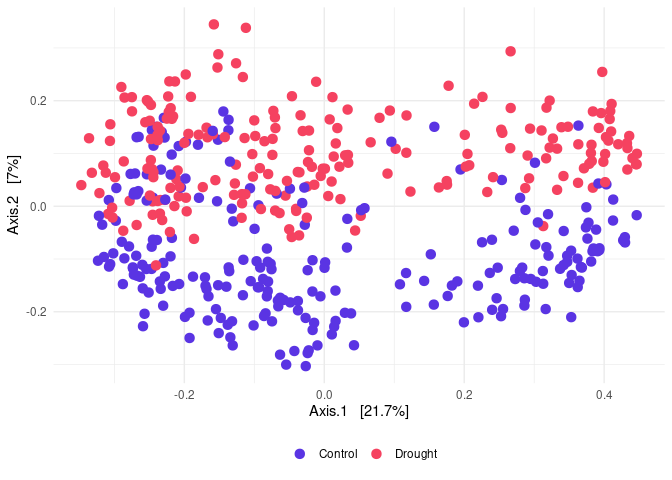
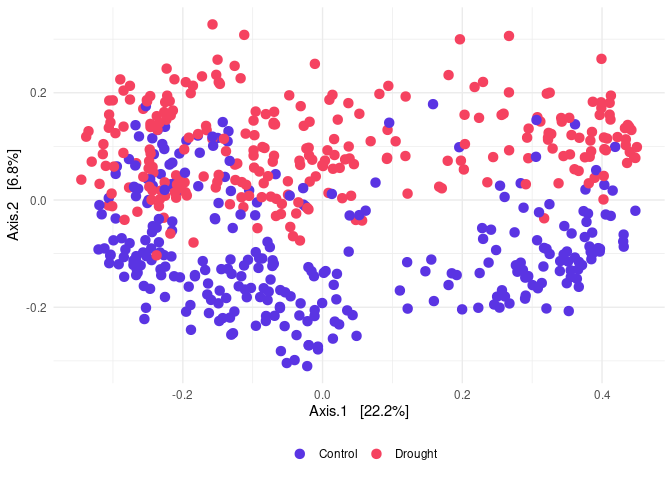
Updated Metagenomic_Analysis.md file

diff --git a/Metagenomics_Analysis.md b/Metagenomics_Analysis.md
@@ -2,7 +2,7 @@ Metagenomics Analysis
 ================
 Michelle Hagen
 
-Perform Metagenomics analysis to the *‘drought-stress’ dataset* from
+Perform 16S rRNA-based metagenomic analysis to the *‘drought-stress’ dataset* from
 Naylor et al., 2017:
 
 Naylor, D., DeGraaf, S., Purdom, E., Coleman-Derr, D.: Drought and host
@@ -131,39 +131,7 @@ ps_rare_filtered
     ## sample_data() Sample Data:       [ 560 samples by 3 sample variables ]
     ## tax_table()   Taxonomy Table:    [ 3276 taxa by 7 taxonomic ranks ]
 
-Remove 20 % of samples from the dataset to create a hold-out dataset for
-testing the ML model.
-
-``` r
-factor_to_maintain_ratio <- "Watering_Regm"
-sample_data(ps_rare_filtered)$Watering_Regm <- factor(sample_data(ps_rare_filtered)$Watering_Regm)
-
-# Determine 20% of the total number of samples
-percent_to_select <- 0.20
-total_samples <- nsamples(ps_rare_filtered)
-num_samples_to_select <- round(total_samples * 0.20)
-
-# Calculate the number of samples to select for each level of the factor
-samples_per_level <- table(sample_data(ps_rare_filtered)[["Watering_Regm"]])
-samples_to_select_per_level <- lapply(samples_per_level, function(x) round(x * 0.20))
-
-# Randomly select samples from each level of the factor
-selected_samples <- list()
-for (level in levels(sample_data(ps_rare_filtered)[["Watering_Regm"]])) {
-  level_indices <- which(sample_data(ps_rare_filtered)[["Watering_Regm"]] == level)
-  selected_indices <- sample(level_indices, samples_to_select_per_level[[level]])
-  selected_samples[[level]] <- rownames(sample_data(ps_rare_filtered))[selected_indices]
-}
-
-# Combine selected samples into two separate datasets
-selected_sample_names <- unlist(selected_samples)
-remaining_sample_names <- setdiff(rownames(sample_data(ps_rare_filtered)), selected_sample_names)
-
-ps_hold_out <- prune_samples(selected_sample_names, ps_rare_filtered)
-ps_rare_filtered <- prune_samples(remaining_sample_names, ps_rare_filtered)
-```
-
-Remaining number of Control and Drought samples in the dataset:
+Number of Control and Drought samples in the dataset:
 
 ``` r
 table(sample_data(ps_rare_filtered)[["Watering_Regm"]])
@@ -171,17 +139,7 @@ table(sample_data(ps_rare_filtered)[["Watering_Regm"]])
 
     ## 
     ## Control Drought 
-    ##     234     214
-
-Remaining number of Control and Drought samples in the hold-out dataset:
-
-``` r
-table(sample_data(ps_hold_out)[["Watering_Regm"]])
-```
-
-    ## 
-    ## Control Drought 
-    ##      58      54
+    ##     292     268
 
 # Diversity Analysis
 
@@ -305,11 +263,12 @@ egg::ggarrange(p_ra_top10_Phylum, p_ra_top10_Class, p_ra_top10_Order, p_ra_top10
 <figure>
 <img
 src="Metagenomics_Analysis_files/figure-gfm/top10%20rel%20abundances-1.png"
-alt="Relative Abundances per Rank. Bar plots displaying the relative abundance of the top 10 taxa between the ’Control’ and ’Drought’ group on Phylum, Class, Order, Family and Genus level in alphabetical order." />
-<figcaption aria-hidden="true"><strong>Relative Abundances per
-Rank.</strong> Bar plots displaying the relative abundance of the top 10
-taxa between the ’Control’ and ’Drought’ group on Phylum, Class, Order,
-Family and Genus level in alphabetical order.</figcaption>
+alt="Relative Abundances per Rank of the Grass-Drought Dataset. Bar plots displaying the relative abundance of the top 10 taxa between the ’Control’ and ’Drought’ group on Phylum, Class, Order, Family and Genus level in alphabetical order." />
+<figcaption aria-hidden="true"><strong>Relative Abundances per Rank of
+the Grass-Drought Dataset.</strong> Bar plots displaying the relative
+abundance of the top 10 taxa between the ’Control’ and ’Drought’ group
+on Phylum, Class, Order, Family and Genus level in alphabetical
+order.</figcaption>
 </figure>
 
 ## Alpha Diversity
@@ -345,14 +304,14 @@ adiv_wr
 <figure>
 <img
 src="Metagenomics_Analysis_files/figure-gfm/Alpha%20Diversity-1.png"
-alt="Alpha Diversity. Alpha diversity plot comparing the Control (blue) and ’Drought’ (red) watering regimes. (A) Boxplot of Shannon’s Diversity index for all samples comparing the ‘Control’ (blue) and ’Drought’ (red) watering regimes. Significance was determined using a non-parametric Wilcoxon rank sum test (* p &lt;0.05, ** p &lt;0.01, *** p &lt;0.001, **** p &lt;0.0001)." />
-<figcaption aria-hidden="true"><strong>Alpha Diversity.</strong> Alpha
-diversity plot comparing the Control (blue) and ’Drought’ (red) watering
-regimes. (A) Boxplot of Shannon’s Diversity index for all samples
-comparing the ‘Control’ (blue) and ’Drought’ (red) watering regimes.
-Significance was determined using a non-parametric Wilcoxon rank sum
-test (* p &lt;0.05, ** p &lt;0.01, *** p &lt;0.001, **** p
-&lt;0.0001).</figcaption>
+alt="Alpha Diversity for the Grass-Drought Dataset. Alpha diversity plot comparing the Control (blue) and ’Drought’ (red) watering regimes. (A) Boxplot of Shannon’s Diversity index for all samples comparing the ‘Control’ (blue) and ’Drought’ (red) watering regimes. Significance was determined using a non-parametric Wilcoxon rank sum test (* p &lt;0.05, ** p &lt;0.01, *** p &lt;0.001, **** p &lt;0.0001)." />
+<figcaption aria-hidden="true"><strong>Alpha Diversity for the
+Grass-Drought Dataset.</strong> Alpha diversity plot comparing the
+Control (blue) and ’Drought’ (red) watering regimes. (A) Boxplot of
+Shannon’s Diversity index for all samples comparing the ‘Control’ (blue)
+and ’Drought’ (red) watering regimes. Significance was determined using
+a non-parametric Wilcoxon rank sum test (* p &lt;0.05, ** p &lt;0.01,
+*** p &lt;0.001, **** p &lt;0.0001).</figcaption>
 </figure>
 
 ## Beta Diversity
@@ -377,10 +336,11 @@ pcoa_wr
 
 <figure>
 <img src="Metagenomics_Analysis_files/figure-gfm/Beta%20diversity-1.png"
-alt="Beta Diversity. Principal Coordinate plot using Bray-Curtis dissimilarities colored by the ’Control’ (blue) and ’Drought’ (red) watering regimes." />
-<figcaption aria-hidden="true"><strong>Beta Diversity.</strong>
-Principal Coordinate plot using Bray-Curtis dissimilarities colored by
-the ’Control’ (blue) and ’Drought’ (red) watering regimes.</figcaption>
+alt="Beta Diversity for the Grass-Drought Dataset. Principal Coordinate plot using Bray-Curtis dissimilarities colored by the ’Control’ (blue) and ’Drought’ (red) watering regimes." />
+<figcaption aria-hidden="true"><strong>Beta Diversity for the
+Grass-Drought Dataset.</strong> Principal Coordinate plot using
+Bray-Curtis dissimilarities colored by the ’Control’ (blue) and
+’Drought’ (red) watering regimes.</figcaption>
 </figure>
 
 ## Differential Abundance Analysis
@@ -2096,15 +2056,16 @@ upset(fromList(ASV_intersection), order.by = "freq", point.size=4, sets.bar.colo
 <figure>
 <img
 src="Metagenomics_Analysis_files/figure-gfm/UpsetPlot%20between%20different%20DAA%20Methods-1.png"
-alt="ASV Intersections between different DAA Tools on ASV level. Upset plots displaying the overlap and uniqueness of significant taxa on ASV level identified by DAA methods (ALDEx2, DESeq2, ANCOM-BC2, non-parametric Wilcoxon rank-sum test, and edgeR). The horizontal bars show the total number of taxa for each tool, while the vertical bars show the number of shared taxa between corresponding sets, sorted by the total number of shared taxa. All tools use an alpha threshold of 0.05 for significance" />
+alt="ASV Intersections between different DAA Tools on ASV level of the Grass-Drought Dataset. Upset plots displaying the overlap and uniqueness of significant taxa on ASV level identified by DAA methods (ALDEx2, DESeq2, ANCOM-BC2, non-parametric Wilcoxon rank-sum test, and edgeR). The horizontal bars show the total number of taxa for each tool, while the vertical bars show the number of shared taxa between corresponding sets, sorted by the total number of shared taxa. All tools use an alpha threshold of 0.05 for significance" />
 <figcaption aria-hidden="true"><strong>ASV Intersections between
-different DAA Tools on ASV level.</strong> Upset plots displaying the
-overlap and uniqueness of significant taxa on ASV level identified by
-DAA methods (ALDEx2, DESeq2, ANCOM-BC2, non-parametric Wilcoxon rank-sum
-test, and edgeR). The horizontal bars show the total number of taxa for
-each tool, while the vertical bars show the number of shared taxa
-between corresponding sets, sorted by the total number of shared taxa.
-All tools use an alpha threshold of 0.05 for significance</figcaption>
+different DAA Tools on ASV level of the Grass-Drought Dataset.</strong>
+Upset plots displaying the overlap and uniqueness of significant taxa on
+ASV level identified by DAA methods (ALDEx2, DESeq2, ANCOM-BC2,
+non-parametric Wilcoxon rank-sum test, and edgeR). The horizontal bars
+show the total number of taxa for each tool, while the vertical bars
+show the number of shared taxa between corresponding sets, sorted by the
+total number of shared taxa. All tools use an alpha threshold of 0.05
+for significance</figcaption>
 </figure>
 
 ``` r
@@ -2114,14 +2075,15 @@ upset(fromList(Phylum_intersection), order.by = "freq", point.size=4, sets.bar.c
 <figure>
 <img
 src="Metagenomics_Analysis_files/figure-gfm/Phylum%20UpsetPlot%20between%20top3%20DAA%20Methods-1.png"
-alt="Phylum Intersections between different DAA Tools. Upset plots displaying the overlap and uniqueness of significant phyla identified by top 3 DAA methods (ALDEx2, DESeq2, ANCOM-BC2). The horizontal bars show the total number of phyla for each tool, while the vertical bars show the number of shared phyla between corresponding sets, sorted by the total number of shared phyla. All tools use an alpha threshold of 0.05 for significance" />
+alt="Phylum Intersections between different DAA Tools on the Grass-Drought Dataset. Upset plots displaying the overlap and uniqueness of significant phyla identified by top 3 DAA methods (ALDEx2, DESeq2, ANCOM-BC2). The horizontal bars show the total number of phyla for each tool, while the vertical bars show the number of shared phyla between corresponding sets, sorted by the total number of shared phyla. All tools use an alpha threshold of 0.05 for significance" />
 <figcaption aria-hidden="true"><strong>Phylum Intersections between
-different DAA Tools.</strong> Upset plots displaying the overlap and
-uniqueness of significant phyla identified by top 3 DAA methods (ALDEx2,
-DESeq2, ANCOM-BC2). The horizontal bars show the total number of phyla
-for each tool, while the vertical bars show the number of shared phyla
-between corresponding sets, sorted by the total number of shared phyla.
-All tools use an alpha threshold of 0.05 for significance</figcaption>
+different DAA Tools on the Grass-Drought Dataset.</strong> Upset plots
+displaying the overlap and uniqueness of significant phyla identified by
+top 3 DAA methods (ALDEx2, DESeq2, ANCOM-BC2). The horizontal bars show
+the total number of phyla for each tool, while the vertical bars show
+the number of shared phyla between corresponding sets, sorted by the
+total number of shared phyla. All tools use an alpha threshold of 0.05
+for significance</figcaption>
 </figure>
 
 ``` r
@@ -2131,15 +2093,15 @@ upset(fromList(Class_intersection), order.by = "freq", point.size=4, sets.bar.co
 <figure>
 <img
 src="Metagenomics_Analysis_files/figure-gfm/Class%20UpsetPlot%20between%20top3%20DAA%20Methods-1.png"
-alt="Class Intersections between different DAA Tools. Upset plots displaying the overlap and uniqueness of significant classes identified by top 3 DAA methods (ALDEx2, DESeq2, ANCOM-BC2). The horizontal bars show the total number of classes for each tool, while the vertical bars show the number of shared classes between corresponding sets, sorted by the total number of shared classes. All tools use an alpha threshold of 0.05 for significance" />
+alt="Class Intersections between different DAA Tools on the Grass-Drought Dataset. Upset plots displaying the overlap and uniqueness of significant classes identified by top 3 DAA methods (ALDEx2, DESeq2, ANCOM-BC2). The horizontal bars show the total number of classes for each tool, while the vertical bars show the number of shared classes between corresponding sets, sorted by the total number of shared classes. All tools use an alpha threshold of 0.05 for significance" />
 <figcaption aria-hidden="true"><strong>Class Intersections between
-different DAA Tools.</strong> Upset plots displaying the overlap and
-uniqueness of significant classes identified by top 3 DAA methods
-(ALDEx2, DESeq2, ANCOM-BC2). The horizontal bars show the total number
-of classes for each tool, while the vertical bars show the number of
-shared classes between corresponding sets, sorted by the total number of
-shared classes. All tools use an alpha threshold of 0.05 for
-significance</figcaption>
+different DAA Tools on the Grass-Drought Dataset.</strong> Upset plots
+displaying the overlap and uniqueness of significant classes identified
+by top 3 DAA methods (ALDEx2, DESeq2, ANCOM-BC2). The horizontal bars
+show the total number of classes for each tool, while the vertical bars
+show the number of shared classes between corresponding sets, sorted by
+the total number of shared classes. All tools use an alpha threshold of
+0.05 for significance</figcaption>
 </figure>
 
 ``` r
@@ -2149,15 +2111,15 @@ upset(fromList(Order_intersection), order.by = "freq", point.size=4, sets.bar.co
 <figure>
 <img
 src="Metagenomics_Analysis_files/figure-gfm/Order%20UpsetPlot%20between%20top3%20DAA%20Methods-1.png"
-alt="Order Intersections between different DAA Tools. Upset plots displaying the overlap and uniqueness of significant orders identified by top 3 DAA methods (ALDEx2, DESeq2, ANCOM-BC2). The horizontal bars show the total number of orders for each tool, while the vertical bars show the number of shared orders between corresponding sets, sorted by the total number of shared orders. All tools use an alpha threshold of 0.05 for significance" />
+alt="Order Intersections between different DAA Tools on the Grass-Drought Dataset. Upset plots displaying the overlap and uniqueness of significant orders identified by top 3 DAA methods (ALDEx2, DESeq2, ANCOM-BC2). The horizontal bars show the total number of orders for each tool, while the vertical bars show the number of shared orders between corresponding sets, sorted by the total number of shared orders. All tools use an alpha threshold of 0.05 for significance" />
 <figcaption aria-hidden="true"><strong>Order Intersections between
-different DAA Tools.</strong> Upset plots displaying the overlap and
-uniqueness of significant orders identified by top 3 DAA methods
-(ALDEx2, DESeq2, ANCOM-BC2). The horizontal bars show the total number
-of orders for each tool, while the vertical bars show the number of
-shared orders between corresponding sets, sorted by the total number of
-shared orders. All tools use an alpha threshold of 0.05 for
-significance</figcaption>
+different DAA Tools on the Grass-Drought Dataset.</strong> Upset plots
+displaying the overlap and uniqueness of significant orders identified
+by top 3 DAA methods (ALDEx2, DESeq2, ANCOM-BC2). The horizontal bars
+show the total number of orders for each tool, while the vertical bars
+show the number of shared orders between corresponding sets, sorted by
+the total number of shared orders. All tools use an alpha threshold of
+0.05 for significance</figcaption>
 </figure>
 
 ``` r
@@ -2167,15 +2129,15 @@ upset(fromList(Family_intersection), order.by = "freq", point.size=4, sets.bar.c
 <figure>
 <img
 src="Metagenomics_Analysis_files/figure-gfm/Family%20UpsetPlot%20between%20top3%20DAA%20Methods-1.png"
-alt="Family Intersections between different DAA Tools. Upset plots displaying the overlap and uniqueness of significant families identified by top 3 DAA methods (ALDEx2, DESeq2, ANCOM-BC2). The horizontal bars show the total number of families for each tool, while the vertical bars show the number of shared families between corresponding sets, sorted by the total number of shared families. All tools use an alpha threshold of 0.05 for significance" />
+alt="Family Intersections between different DAA Tools on the Grass-Drought Dataset. Upset plots displaying the overlap and uniqueness of significant families identified by top 3 DAA methods (ALDEx2, DESeq2, ANCOM-BC2). The horizontal bars show the total number of families for each tool, while the vertical bars show the number of shared families between corresponding sets, sorted by the total number of shared families. All tools use an alpha threshold of 0.05 for significance" />
 <figcaption aria-hidden="true"><strong>Family Intersections between
-different DAA Tools.</strong> Upset plots displaying the overlap and
-uniqueness of significant families identified by top 3 DAA methods
-(ALDEx2, DESeq2, ANCOM-BC2). The horizontal bars show the total number
-of families for each tool, while the vertical bars show the number of
-shared families between corresponding sets, sorted by the total number
-of shared families. All tools use an alpha threshold of 0.05 for
-significance</figcaption>
+different DAA Tools on the Grass-Drought Dataset.</strong> Upset plots
+displaying the overlap and uniqueness of significant families identified
+by top 3 DAA methods (ALDEx2, DESeq2, ANCOM-BC2). The horizontal bars
+show the total number of families for each tool, while the vertical bars
+show the number of shared families between corresponding sets, sorted by
+the total number of shared families. All tools use an alpha threshold of
+0.05 for significance</figcaption>
 </figure>
 
 ``` r
@@ -2185,13 +2147,13 @@ upset(fromList(Genus_intersection), order.by = "freq", point.size=4, sets.bar.co
 <figure>
 <img
 src="Metagenomics_Analysis_files/figure-gfm/Genus%20UpsetPlot%20between%20top3%20DAA%20Methods-1.png"
-alt="Genus Intersections between different DAA Tools. Upset plots displaying the overlap and uniqueness of significant genera identified by top 3 DAA methods (ALDEx2, DESeq2, ANCOM-BC2). The horizontal bars show the total number of genera for each tool, while the vertical bars show the number of shared genera between corresponding sets, sorted by the total number of shared genera. All tools use an alpha threshold of 0.05 for significance" />
+alt="Genus Intersections between different DAA Tools on the Grass-Drought Dataset. Upset plots displaying the overlap and uniqueness of significant genera identified by top 3 DAA methods (ALDEx2, DESeq2, ANCOM-BC2). The horizontal bars show the total number of genera for each tool, while the vertical bars show the number of shared genera between corresponding sets, sorted by the total number of shared genera. All tools use an alpha threshold of 0.05 for significance" />
 <figcaption aria-hidden="true"><strong>Genus Intersections between
-different DAA Tools.</strong> Upset plots displaying the overlap and
-uniqueness of significant genera identified by top 3 DAA methods
-(ALDEx2, DESeq2, ANCOM-BC2). The horizontal bars show the total number
-of genera for each tool, while the vertical bars show the number of
-shared genera between corresponding sets, sorted by the total number of
-shared genera. All tools use an alpha threshold of 0.05 for
-significance</figcaption>
+different DAA Tools on the Grass-Drought Dataset.</strong> Upset plots
+displaying the overlap and uniqueness of significant genera identified
+by top 3 DAA methods (ALDEx2, DESeq2, ANCOM-BC2). The horizontal bars
+show the total number of genera for each tool, while the vertical bars
+show the number of shared genera between corresponding sets, sorted by
+the total number of shared genera. All tools use an alpha threshold of
+0.05 for significance</figcaption>
 </figure>
